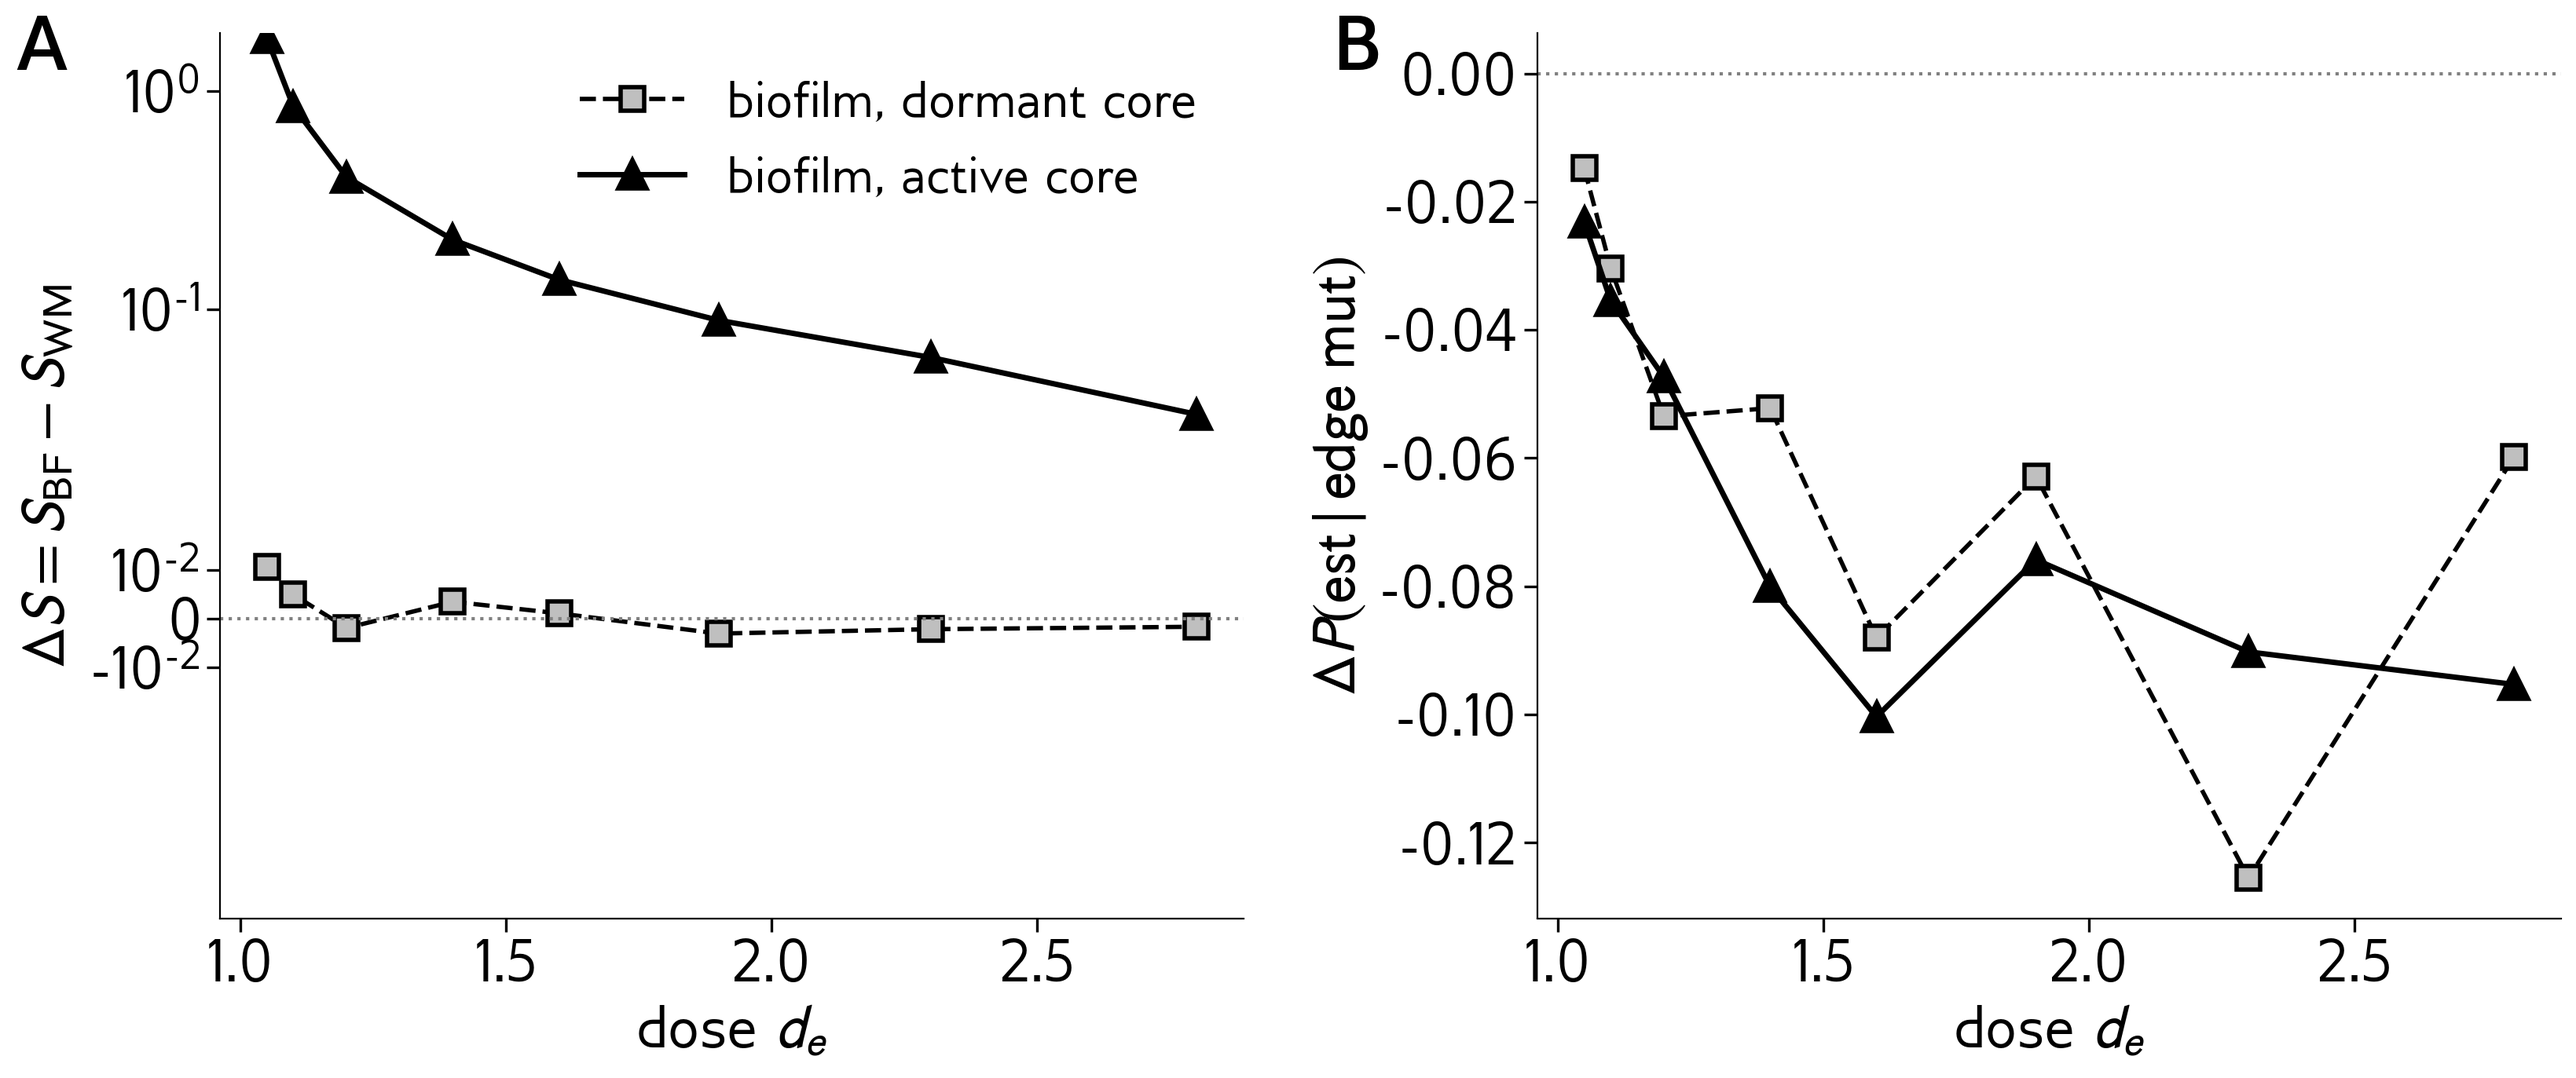
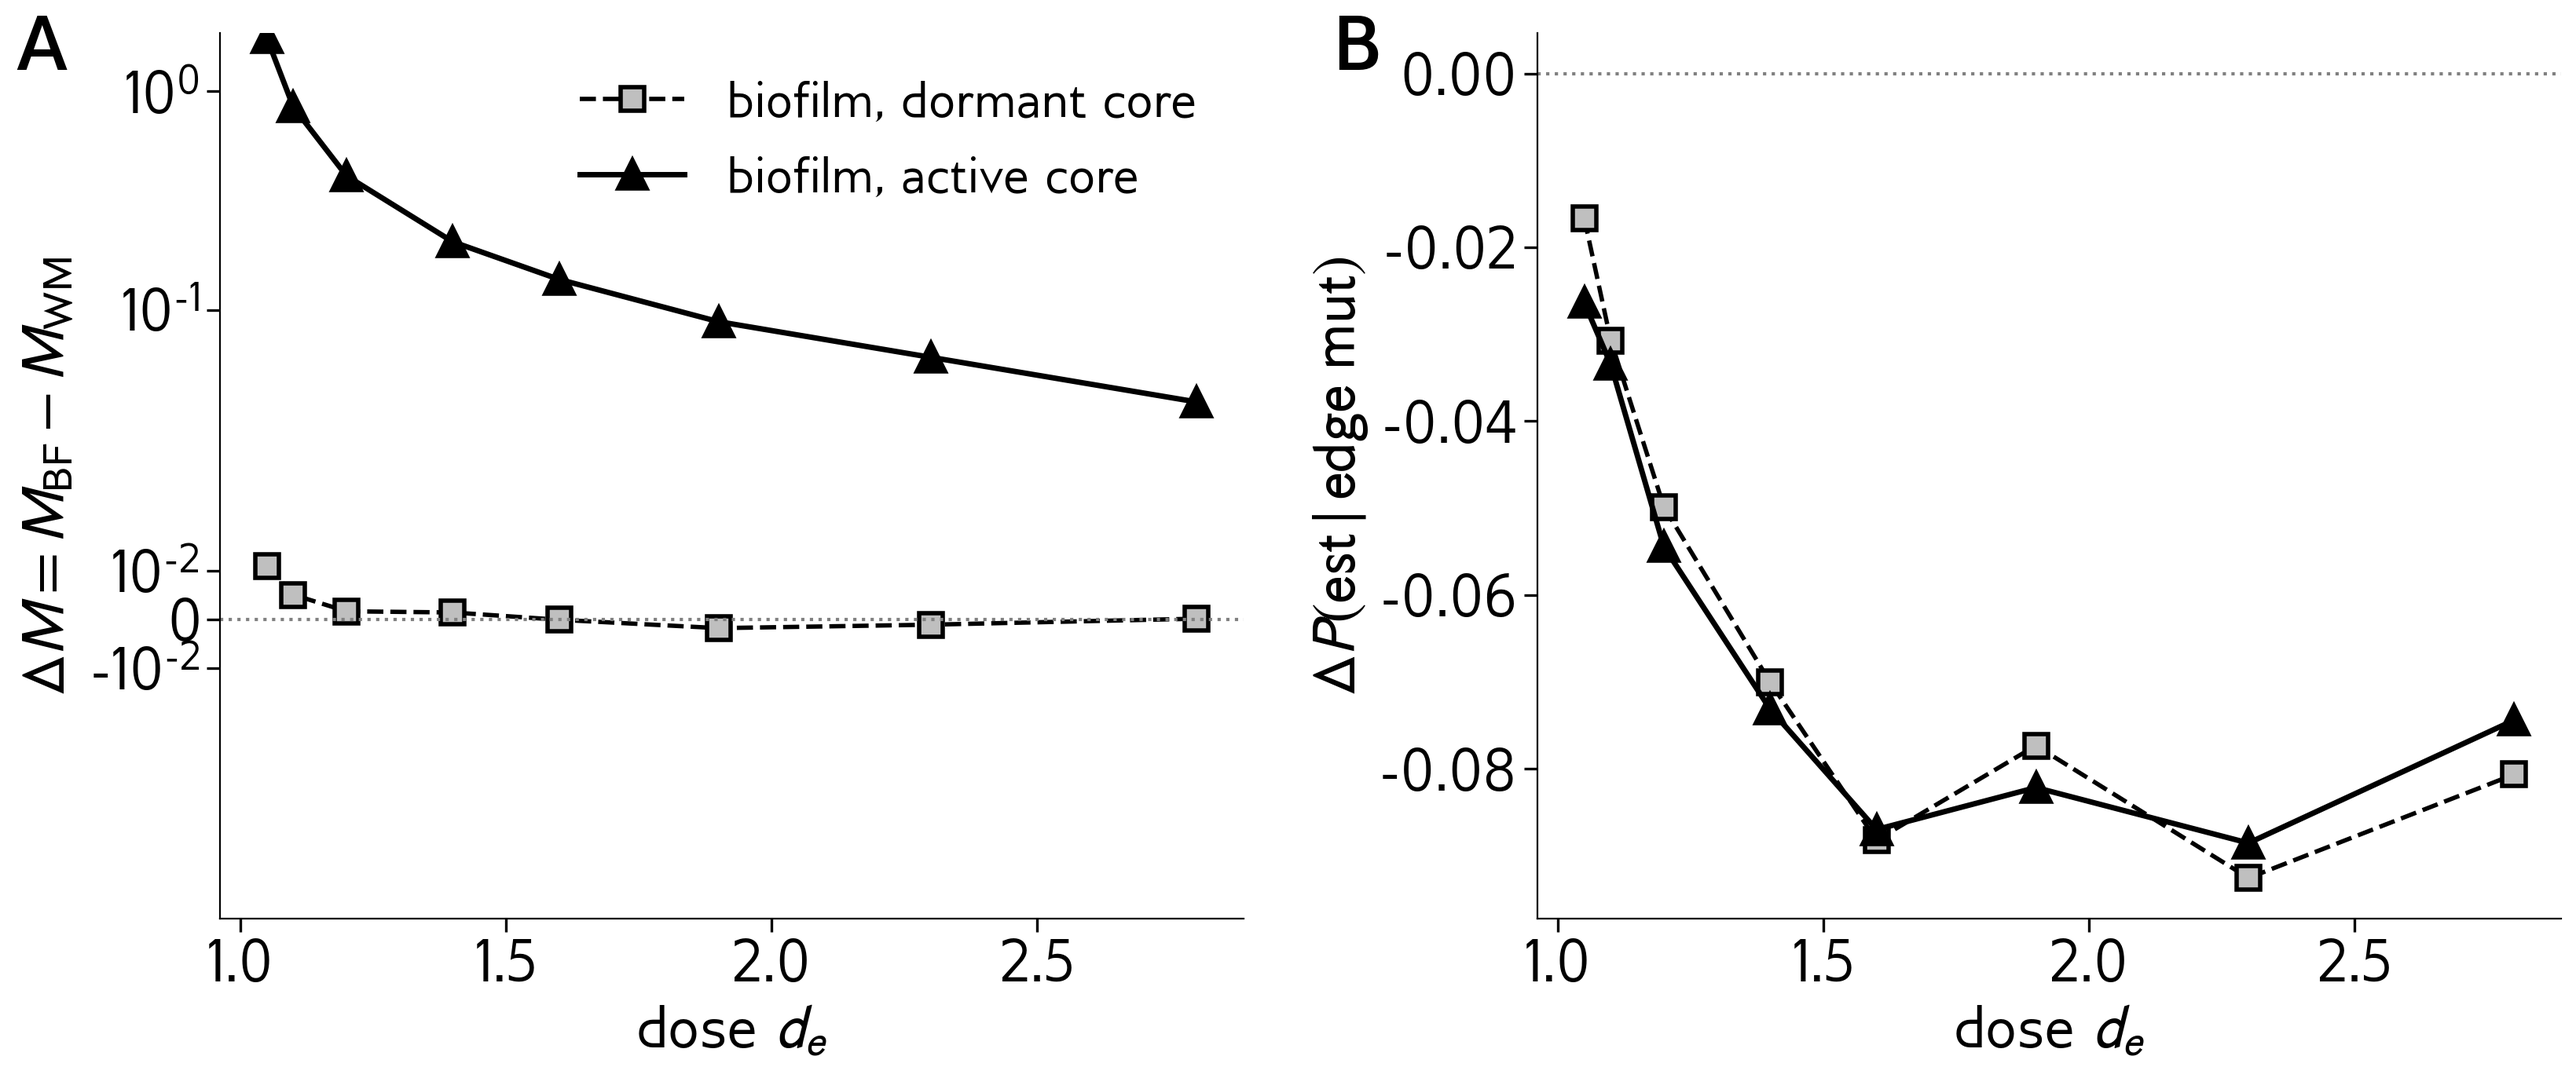
updated figs

diff --git a/scripts/plotDoseCurves.py b/scripts/plotDoseCurves.py
@@ -163,7 +163,7 @@ def plot_decomposition(wm_df, bf_dormant_df, bf_active_df, outPath):
     axL.axhline(0, color='gray', linestyle=':', linewidth=1.5)
     axL.set_yscale('symlog', linthresh=0.05)
     axL.set_xlabel(r'dose $d_e$')
-    axL.set_ylabel(r'$\Delta S = S_{\mathrm{BF}} - S_{\mathrm{WM}}$')
+    axL.set_ylabel(r'$\Delta M = M_{\mathrm{BF}} - M_{\mathrm{WM}}$')
     axL.legend(frameon=False, loc='upper right')
     _panel_label(axL, 'A', dx=-0.20)
     _style_axes(axL)
